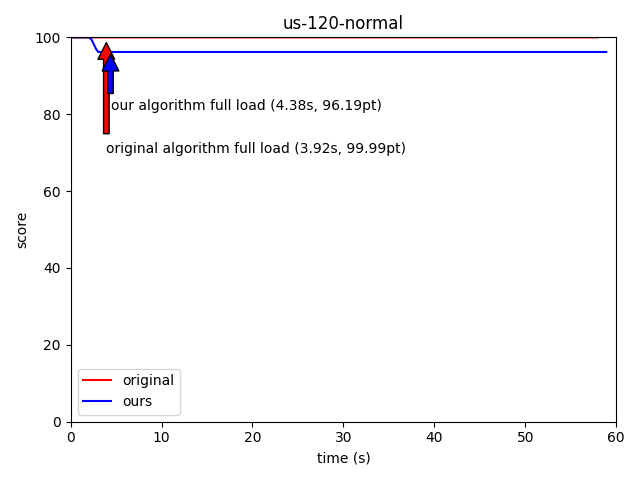
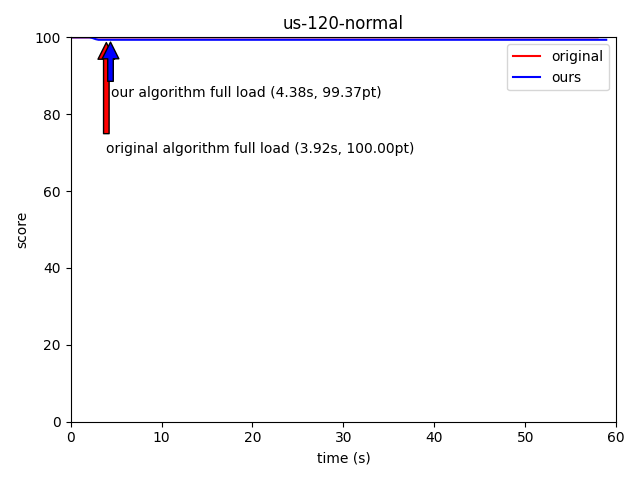
:bug: Fix score

diff --git a/analyzer/analyzer.py b/analyzer/analyzer.py
@@ -43,12 +43,20 @@ def process_one_csv(csv_path, modality, network, situation, algorithm) -> Benchm
     df.reset_index(drop=True, inplace=True)
     # print("after drop:", df.to_string())
     df["score"] = 0
-    df.loc[df["method"] == "X", "score"] = -5
-    df.loc[df["method"] == "CSR", "score"] = 0
-    df.loc[df["method"] == "SSR", "score"] = -2
+    df.loc[df["method"] == "X", "score"] = -5 / durations[situation] * 10
+    df.loc[df["method"] == "CSR", "score"] = 0 / durations[situation] * 10
+    df.loc[df["method"] == "SSR", "score"] = -2 / durations[situation] * 10
 
     mintime = df["timestamp"].iloc[0]
     df["elapsedTime"] = (df["timestamp"] - mintime) / 1000
+    timeoutIndex = df.index[df["elapsedTime"] > durations[situation]]
+    if len(timeoutIndex) > 0:
+        timeoutIndex = timeoutIndex[0]
+    else:
+        timeoutIndex = None
+    if timeoutIndex is not None:
+        df.drop(df[timeoutIndex:].index, inplace=True)
+        df.reset_index(drop=True, inplace=True)
     # df.loc[fullLoadIndex:, "score"] = 0
     df["cumint"] = 100 + integrate.cumulative_trapezoid(df.score, x=df.elapsedTime, initial=0)
     df["cumsum"] = df["score"].cumsum()
@@ -231,3 +239,16 @@ if __name__ == "__main__":
         print(r" \\ \hline")
 
     print(r"\end{tabular}")
+
+r"""
+\begin{tabular}{ | c | c | c | c | c | c | c | c | c | c | c | c | c |}
+  \hline
+  & \multicolumn{2}{|c|}{ct-fastscroll}& \multicolumn{2}{|c|}{ct-normal}& \multicolumn{2}{|c|}{mr-fastscroll}& \multicolumn{2}{|c|}{mr-normal}& \multicolumn{2}{|c|}{us-fastscroll}& \multicolumn{2}{|c|}{us-normal} \\ \hline
+  net& original & new & original & new & original & new & original & new & original & new & original & new \\ \hline
+  40 & 60.36 & 90.09 & 99.84 & 98.95 & 59.08 & 60.78 & 52.81 & 95.85 & 77.89 & 93.05 & 100.00 & 99.32  \\   \hline
+  80 & 58.91 & 90.86 & 99.77 & 99.32 & 60.56 & 78.51 & 53.15 & 97.04 & 92.93 & 94.31 & 100.00 & 99.70  \\ \hline
+  120 & 75.04 & 92.05 & 98.79 & 98.97 & 58.44 & 74.72 & 53.64 & 95.39 & 80.30 & 94.20 & 100.00 & 99.37\\  \hline
+  160 & 69.53 & 91.74 & 98.96 & 99.74 & 60.49 & 74.39 & 53.28 & 92.05 & 97.23 & 94.57 & 99.32 & 99.39  \\ \hline
+  200 & 63.15 & 88.78 & 99.76 & 99.50 & 63.47 & 71.18 & 53.45 & 86.57 & 97.48 & 93.41 & 98.21 & 99.35  \\ \hline
+  \end{tabular}
+"""
